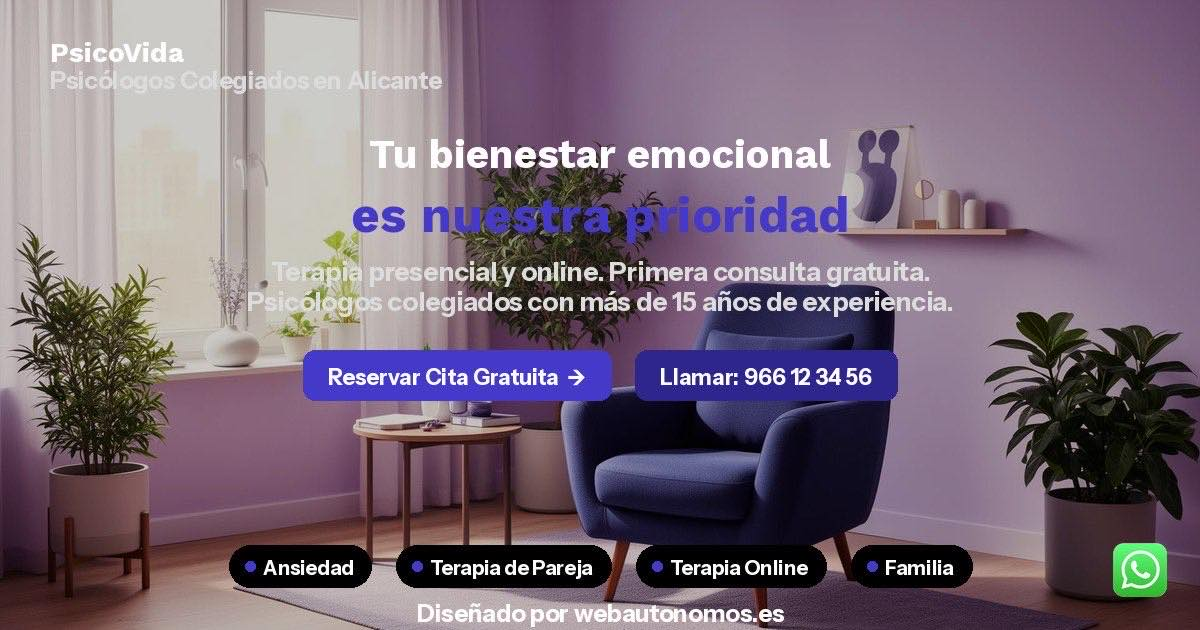
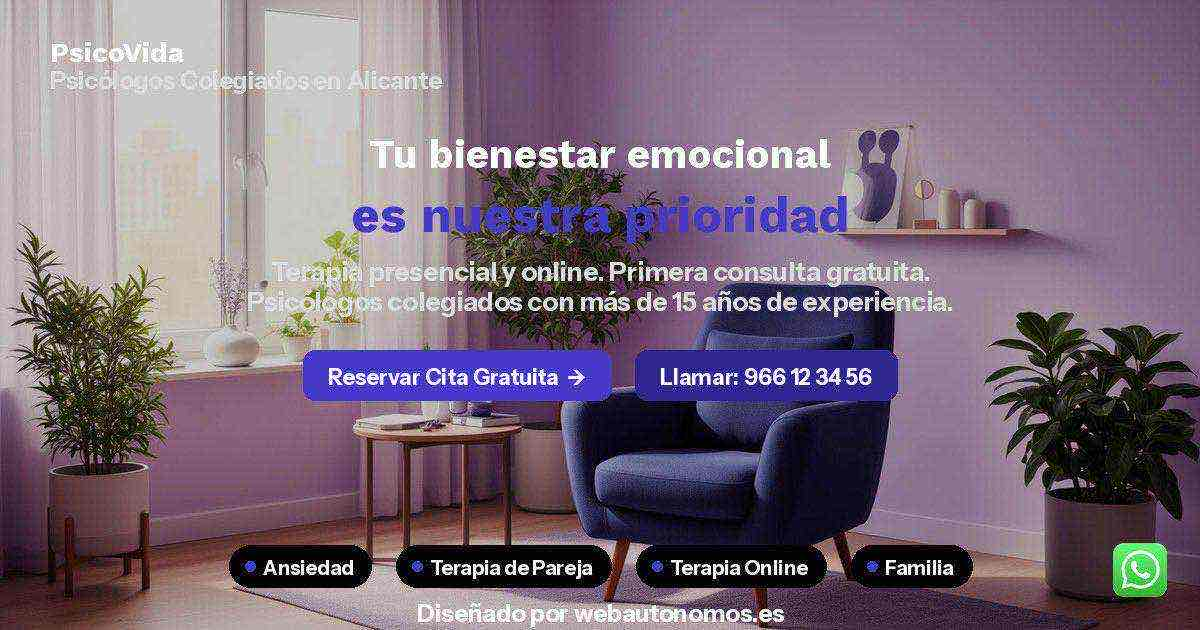
perf: fonts non-blocking + GA defer + preload hero + recompress jpg

diff --git a/fisioterapeutas/index.html b/fisioterapeutas/index.html
@@ -3,11 +3,15 @@
 <head>
 <meta charset="UTF-8">
 <meta name="viewport" content="width=device-width, initial-scale=1.0">
+<link rel="preload" as="image" href="/assets/og-demo-fisio.jpg">
 <title>Web Profesional Para Fisioterapeutas — 15€/mes | WebAutonomos</title>
 <meta name="description" content="Página web profesional para fisioterapeutas y centros de fisioterapia por solo 15€/mes. Demo en 24h con tus servicios y reseñas reales. Sin alta, sin permanencia.">
 <link rel="icon" href="https://webautonomos.es/favicon.ico" type="image/x-icon">
 <link rel="preconnect" href="https://fonts.googleapis.com">
-<link href="https://fonts.googleapis.com/css2?family=Bricolage+Grotesque:opsz,wght@12..96,400;12..96,600;12..96,800&family=DM+Sans:wght@400;500;600&display=swap" rel="stylesheet">
+<link rel="preconnect" href="https://fonts.gstatic.com" crossorigin>
+<link rel="preload" as="style" href="https://fonts.googleapis.com/css2?family=Bricolage+Grotesque:opsz,wght@12..96,400;12..96,600;12..96,800&family=DM+Sans:wght@400;500;600&display=swap">
+<link href="https://fonts.googleapis.com/css2?family=Bricolage+Grotesque:opsz,wght@12..96,400;12..96,600;12..96,800&family=DM+Sans:wght@400;500;600&display=swap" rel="stylesheet" media="print" onload="this.media='all'">
+<noscript><link href="https://fonts.googleapis.com/css2?family=Bricolage+Grotesque:opsz,wght@12..96,400;12..96,600;12..96,800&family=DM+Sans:wght@400;500;600&display=swap" rel="stylesheet"></noscript>
 <style>
   :root {
     --blue:       #1a3a8f;
@@ -621,7 +625,7 @@
 }
 </script>
 <!-- Google Analytics GA4 -->
-<script async src="https://www.googletagmanager.com/gtag/js?id=G-MT6S7CH7N9"></script>
+<script defer src="https://www.googletagmanager.com/gtag/js?id=G-MT6S7CH7N9"></script>
 <script>
   window.dataLayer = window.dataLayer || [];
   function gtag(){dataLayer.push(arguments);}

diff --git a/dentistas/index.html b/dentistas/index.html
@@ -3,11 +3,15 @@
 <head>
 <meta charset="UTF-8">
 <meta name="viewport" content="width=device-width, initial-scale=1.0">
+<link rel="preload" as="image" href="/assets/og-demo-dentistas.jpg">
 <title>Web Profesional Para Dentistas — 15€/mes | WebAutonomos</title>
 <meta name="description" content="Página web profesional para clínicas dentales por solo 15€/mes. Demo personalizada en 24h con tus fotos y reseñas reales. Sin alta, sin permanencia.">
 <link rel="icon" href="https://webautonomos.es/favicon.ico" type="image/x-icon">
 <link rel="preconnect" href="https://fonts.googleapis.com">
-<link href="https://fonts.googleapis.com/css2?family=Bricolage+Grotesque:opsz,wght@12..96,400;12..96,600;12..96,800&family=DM+Sans:wght@400;500;600&display=swap" rel="stylesheet">
+<link rel="preconnect" href="https://fonts.gstatic.com" crossorigin>
+<link rel="preload" as="style" href="https://fonts.googleapis.com/css2?family=Bricolage+Grotesque:opsz,wght@12..96,400;12..96,600;12..96,800&family=DM+Sans:wght@400;500;600&display=swap">
+<link href="https://fonts.googleapis.com/css2?family=Bricolage+Grotesque:opsz,wght@12..96,400;12..96,600;12..96,800&family=DM+Sans:wght@400;500;600&display=swap" rel="stylesheet" media="print" onload="this.media='all'">
+<noscript><link href="https://fonts.googleapis.com/css2?family=Bricolage+Grotesque:opsz,wght@12..96,400;12..96,600;12..96,800&family=DM+Sans:wght@400;500;600&display=swap" rel="stylesheet"></noscript>
 <style>
   :root {
     --blue:       #1a3a8f;
@@ -621,7 +625,7 @@
 }
 </script>
 <!-- Google Analytics GA4 -->
-<script async src="https://www.googletagmanager.com/gtag/js?id=G-MT6S7CH7N9"></script>
+<script defer src="https://www.googletagmanager.com/gtag/js?id=G-MT6S7CH7N9"></script>
 <script>
   window.dataLayer = window.dataLayer || [];
   function gtag(){dataLayer.push(arguments);}

diff --git a/psicologos/index.html b/psicologos/index.html
@@ -3,11 +3,15 @@
 <head>
 <meta charset="UTF-8">
 <meta name="viewport" content="width=device-width, initial-scale=1.0">
+<link rel="preload" as="image" href="/assets/og-demo-psico.jpg">
 <title>Web Profesional Para Psicólogos — 15€/mes | WebAutonomos</title>
 <meta name="description" content="Página web profesional para psicólogos y consultas de psicología por solo 15€/mes. Demo en 24h, discreta y profesional. Sin alta, sin permanencia.">
 <link rel="icon" href="https://webautonomos.es/favicon.ico" type="image/x-icon">
 <link rel="preconnect" href="https://fonts.googleapis.com">
-<link href="https://fonts.googleapis.com/css2?family=Bricolage+Grotesque:opsz,wght@12..96,400;12..96,600;12..96,800&family=DM+Sans:wght@400;500;600&display=swap" rel="stylesheet">
+<link rel="preconnect" href="https://fonts.gstatic.com" crossorigin>
+<link rel="preload" as="style" href="https://fonts.googleapis.com/css2?family=Bricolage+Grotesque:opsz,wght@12..96,400;12..96,600;12..96,800&family=DM+Sans:wght@400;500;600&display=swap">
+<link href="https://fonts.googleapis.com/css2?family=Bricolage+Grotesque:opsz,wght@12..96,400;12..96,600;12..96,800&family=DM+Sans:wght@400;500;600&display=swap" rel="stylesheet" media="print" onload="this.media='all'">
+<noscript><link href="https://fonts.googleapis.com/css2?family=Bricolage+Grotesque:opsz,wght@12..96,400;12..96,600;12..96,800&family=DM+Sans:wght@400;500;600&display=swap" rel="stylesheet"></noscript>
 <style>
   :root {
     --blue:       #1a3a8f;
@@ -621,7 +625,7 @@
 }
 </script>
 <!-- Google Analytics GA4 -->
-<script async src="https://www.googletagmanager.com/gtag/js?id=G-MT6S7CH7N9"></script>
+<script defer src="https://www.googletagmanager.com/gtag/js?id=G-MT6S7CH7N9"></script>
 <script>
   window.dataLayer = window.dataLayer || [];
   function gtag(){dataLayer.push(arguments);}
